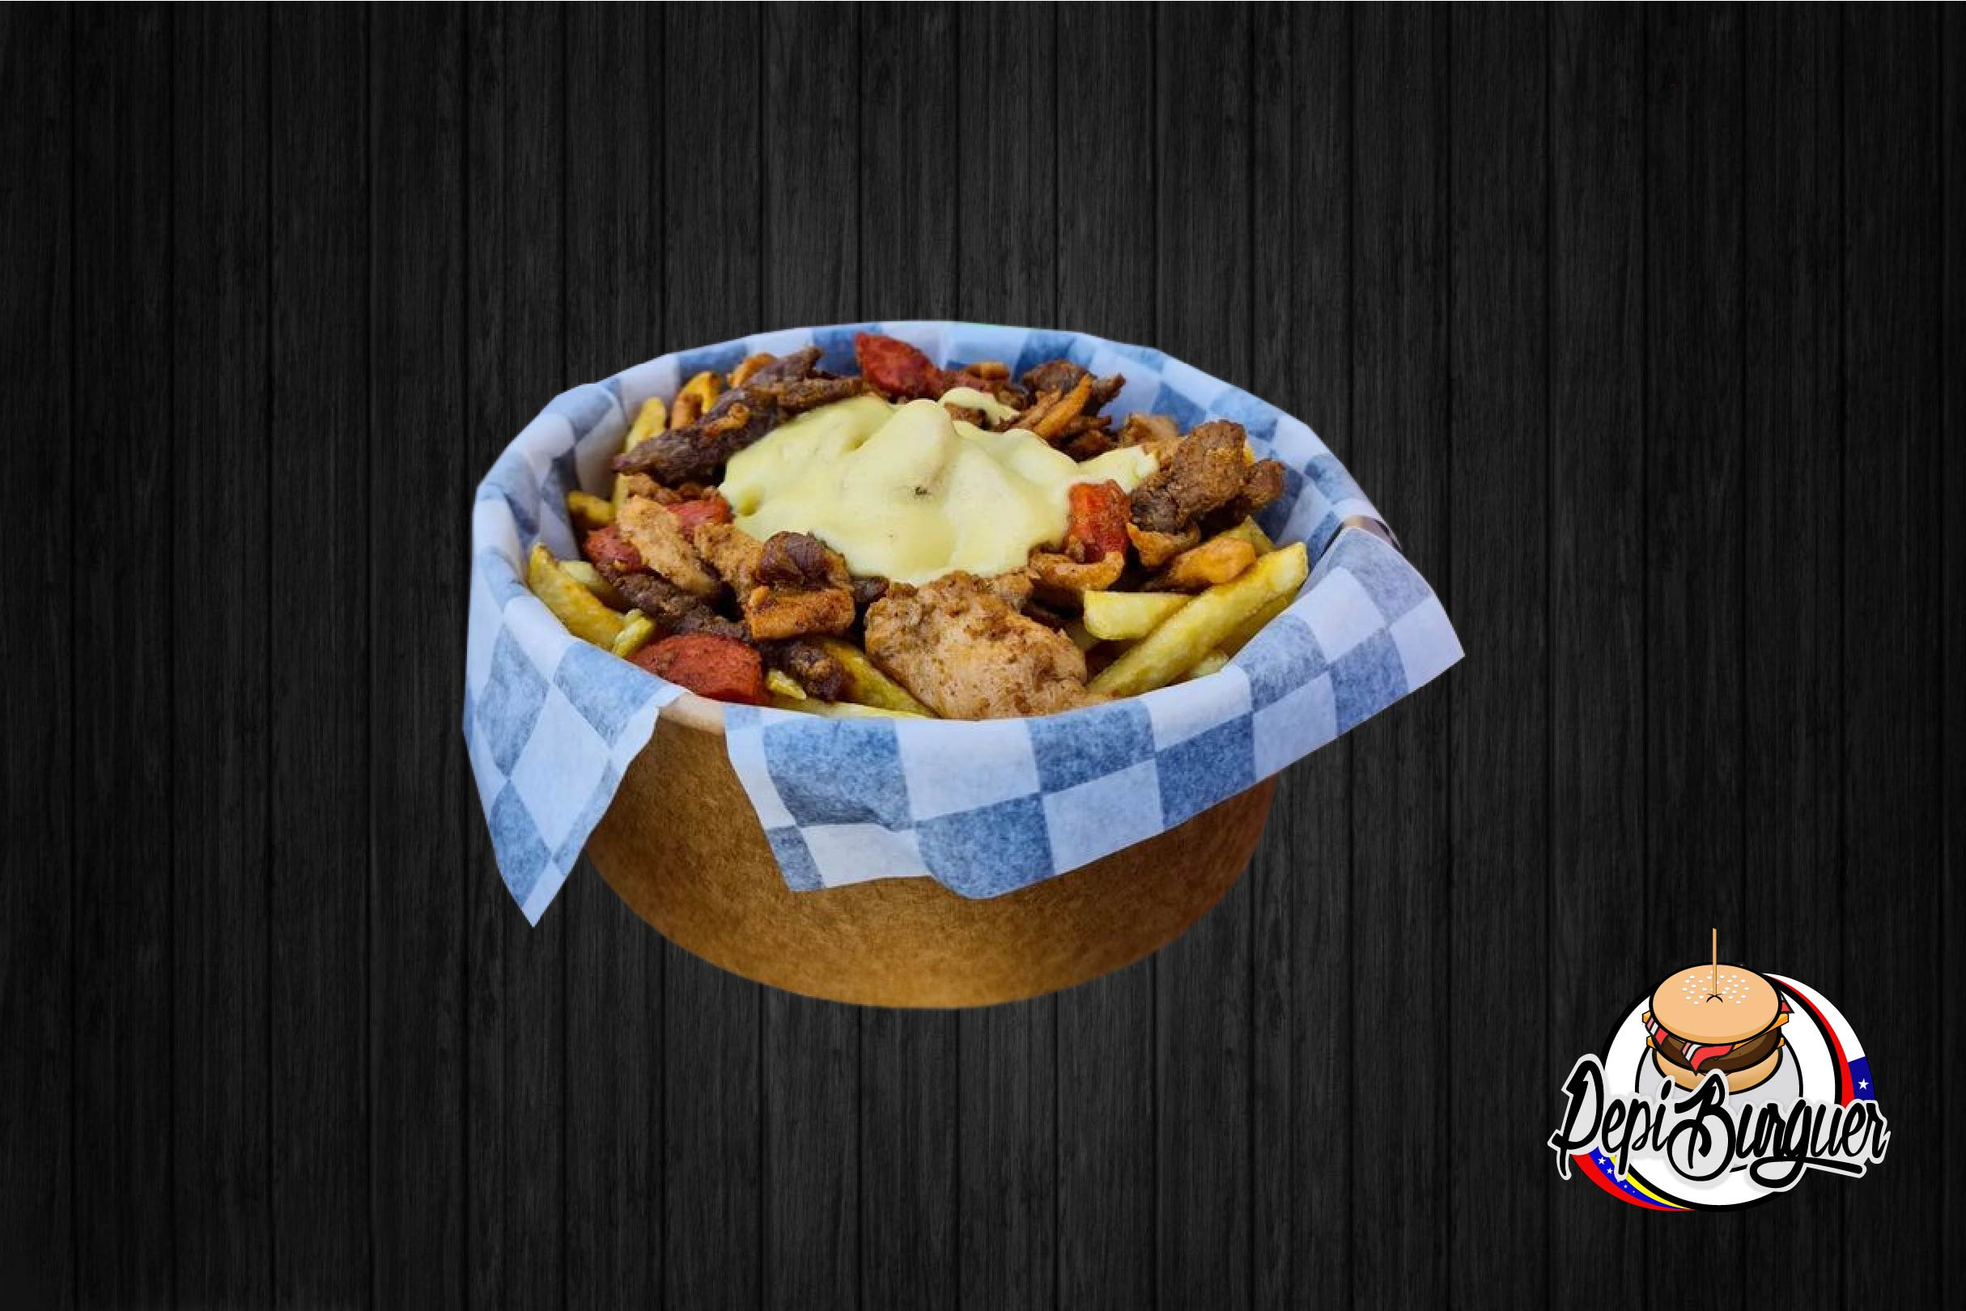
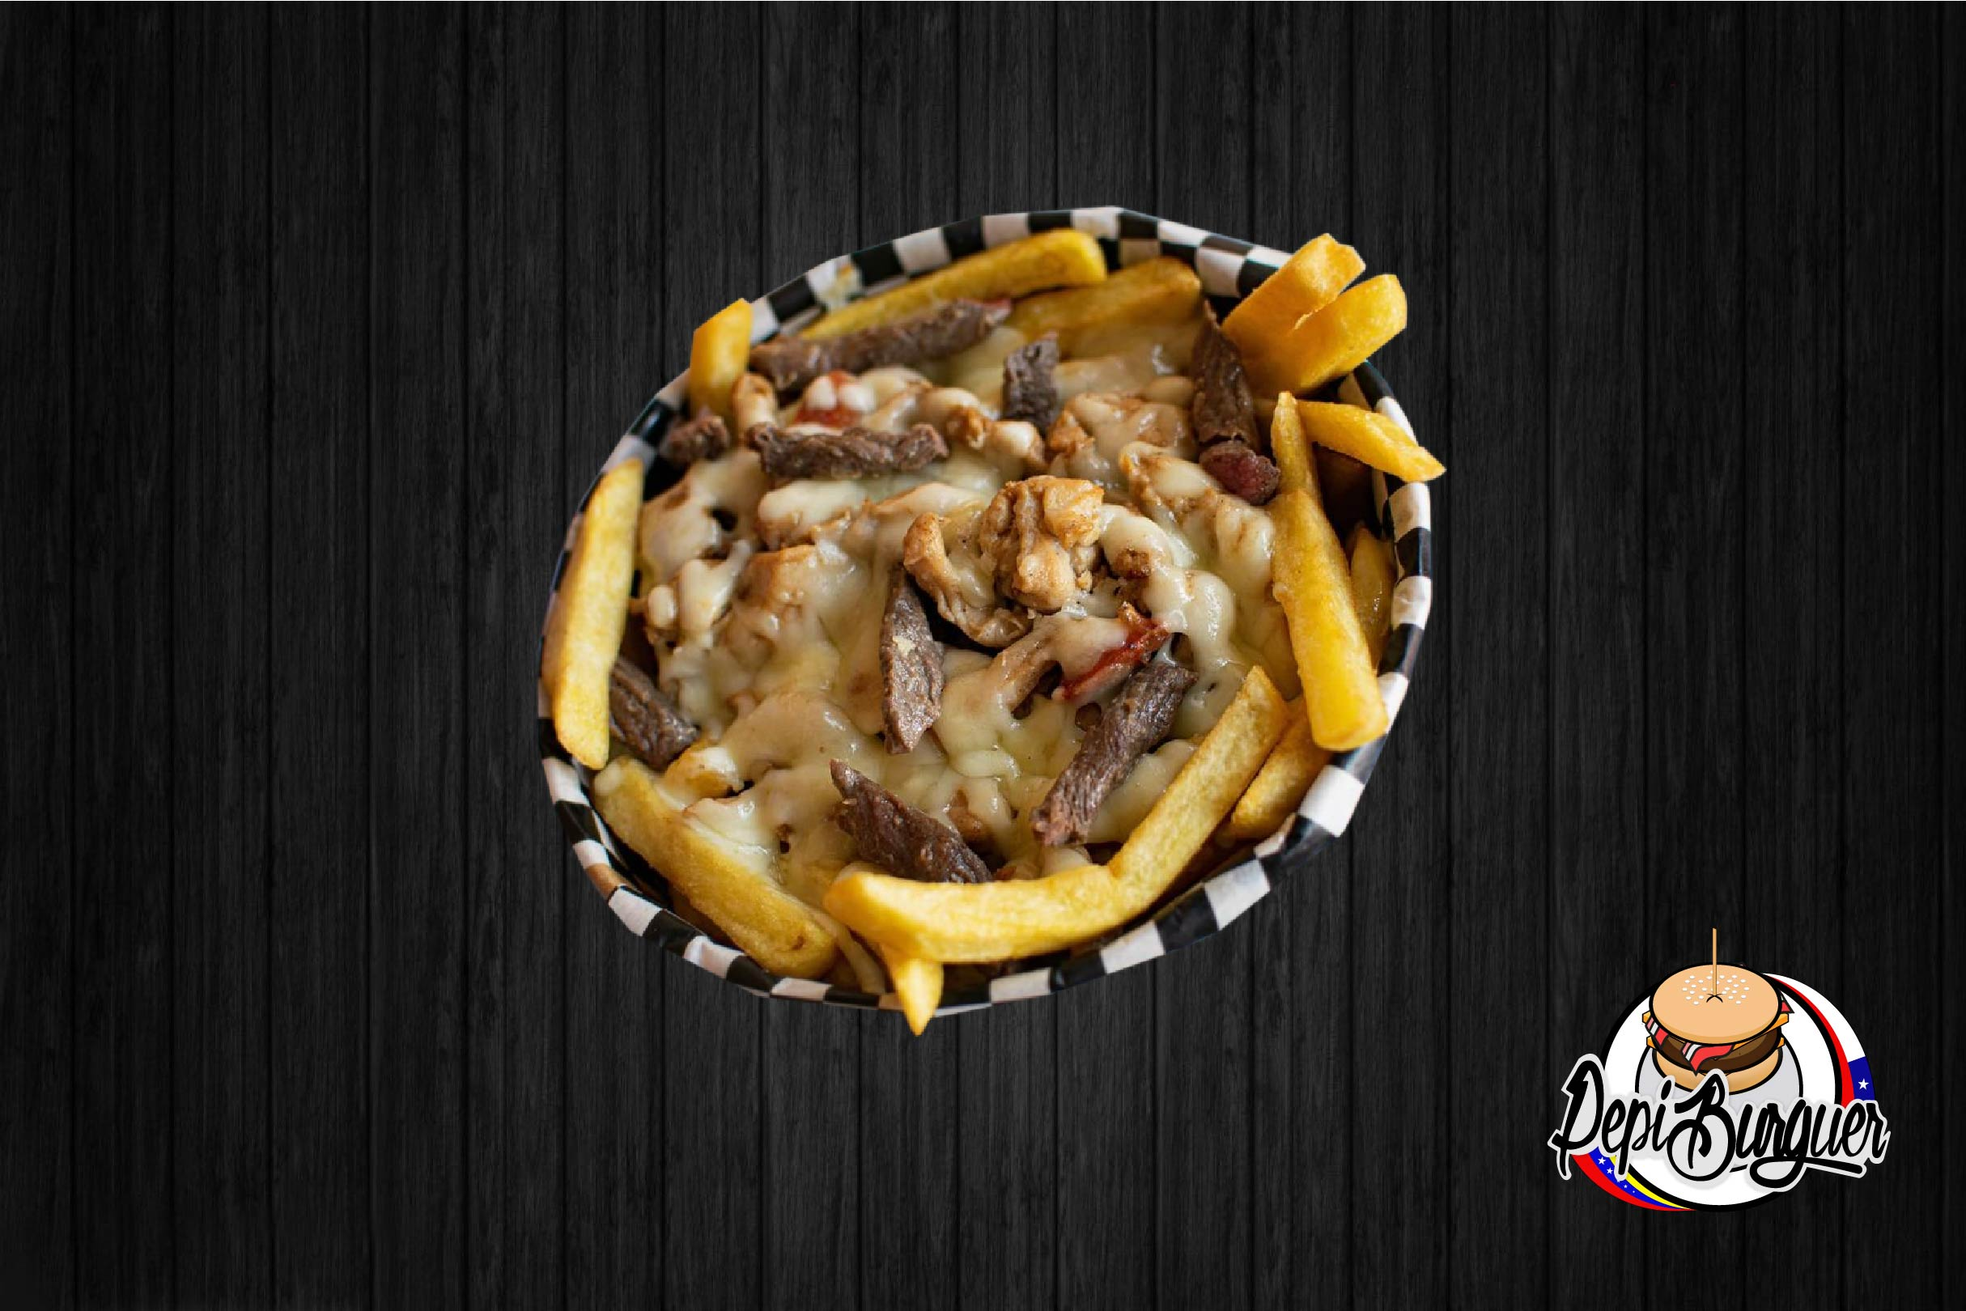
Update format images cards and edit

Changed region(s): [[0.2161, 0.1543, 0.741, 0.8025]]

diff --git a/docs/menu.html b/docs/menu.html
@@ -67,10 +67,11 @@
 
             <div class="box" data-aos="fade-up" data-aos-delay="150">
                 <div class="image">
-                    <img src="images/cards/MIXTA_PRO.jpg" alt="">
+                  <picture><source srcset="images/cards/MIXTA_PRO.webp" type="image/webp"> 
+                    <img src="images/cards/MIXTA_PRO.jpg" alt="pepito" class="img_menu"></picture>
                     <div class="icons">
                         <p class="titulo_promo">Mixta </p>
-                        <p class="text_promo">Esta delicia lleva doble carne, tocino, Queso Sheder </p>
+                        <p class="text_promo">Esta delicia lleva doble carne, tocino, Queso Shedder </p>
                     </div>
                 </div>
                 <div class="content">
@@ -84,7 +85,8 @@
 
             <div class="box" data-aos="fade-up" data-aos-delay="300">
                 <div class="image">
-                    <img src="images/cards/CLUBHOUSE_PRO.jpg" alt="">
+                  <picture><source srcset="images/cards/CLUBHOUSE_PRO.webp" type="image/webp"> 
+                    <img src="images/cards/CLUBHOUSE_PRO.jpg" alt="pepito" class="img_menu"></picture>
                     <div class="icons">
                         <p class="titulo_promo">Club House </p>
                         <p class="text_promo">Sandwich al estilo Americano, acompañado con papas y salsa</p>
@@ -101,10 +103,11 @@
 
             <div class="box" data-aos="fade-up" data-aos-delay="450">
                 <div class="image">
-                    <img src="images/cards/PROBRE_PRO.jpg" alt="">
+                  <picture><source srcset="images/cards/PROBRE_PRO.webp" type="image/webp"> 
+                    <img src="images/cards/PROBRE_PRO.jpg" alt="pepito" class="img_menu"></picture>
                     <div class="icons">
                         <p class="titulo_promo">A lo Probre </p>
-                        <p class="text_promo">Tradicion chilena, papa, huevo, doble carne</p>
+                        <p class="text_promo">Tradición chilena, papa, huevo, doble carne</p>
                     </div>
                 </div>
                 <div class="content">
@@ -176,14 +179,16 @@
             <tbody>
               <tr>
                 <td class=" item texto_menu">1</td>
-                <td><img src="images/edit/MIXTA.png" class="img_menu"></td>
+                <td><picture><source srcset="images/edit/MIXTA.webp" type="image/webp"> 
+                  <img src="images/edit/MIXTA.png" alt="pepito" class="img_menu"></picture></td>
                 <td class="texto_menu">HAMBURGUESA MIXTA</td>
                 <td class="texto_menu" ><a href="" data-bs-toggle="modal" data-bs-target="#myModal">Ver</a></td>
                 <td class="texto_menu">4.600</td>
               </tr>
               <tr>
                 <td class="item texto_menu texto_menu">2</td>
-                <td><img src="images/edit/LA GORDA.png" class="img_menu"></td>
+                <td><picture><source srcset="images/edit/LA GORDA.webp" type="image/webp"> 
+                  <img src="images/edit/LA GORDA.webp" alt="pepito" class="img_menu"></picture></td>
                 <td class="texto_menu">HAMBURGUESA GORDA</td>
                 <td class="texto_menu" ><a href="" data-bs-toggle="modal" data-bs-target="#burguer_2">Ver</a></td>
                 <td class="texto_menu">5.200</td>
@@ -191,7 +196,8 @@
 
               <tr>
                 <td class="item texto_menu texto_menu">3</td>
-                <td><img src="images/edit/CLUB_HOUSE.png" class="img_menu"></td>
+                <td><picture><source src="images/edit/CLUB_HOUSE.webp" type="image/webp"> 
+                  <img src="images/edit/CLUB_HOUSE.png" alt="pepito" class="img_menu"></picture></td>
                 <td class="texto_menu">CLUB HOUSE SIMPLE</td>
                 <td class="texto_menu" ><a href="" data-bs-toggle="modal" data-bs-target="#clubhouse">Ver</a></td>
                 <td class="texto_menu">4.550</td>
@@ -199,7 +205,8 @@
 
               <tr>
                 <td class=" item texto_menu texto_menu">4</td>
-                <td><img src="images/edit/CLUBHOUSE_ESPECIAL.png" class="img_menu"></td>
+                <td><picture><source srcset="images/edit/CLUBHOUSE_ESPECIAL.webp" type="image/webp"> 
+                  <img src="images/edit/CLUBHOUSE_ESPECIAL.png" alt="pepito" class="img_menu"></picture></td>
                 <td class="texto_menu">CLUB HOUSE ESPECIAL</td>
                 <td class="texto_menu" ><a href="" data-bs-toggle="modal" data-bs-target="#clubhousee">Ver</a></td>
                 <td class="texto_menu">4.550</td>
@@ -207,7 +214,8 @@
 
               <tr>
                 <td class="item texto_menu texto_menu">5</td>
-                <td><img src="images/edit/PEPITO.png" class="img_menu"></td>
+                <td><picture><source srcset="images/edit/PEPITO.webp" type="image/webp"> 
+                  <img src="images/edit/PEPITO.png" alt="pepito" class="img_menu"></picture></td>
                 <td class="texto_menu">PEPITO CHOXI</td>
                 <td class="texto_menu" ><a href="" data-bs-toggle="modal" data-bs-target="#pepitocx">Ver</a></td>
                 <td class="texto_menu">6.890</td>
@@ -215,7 +223,9 @@
 
               <tr>
                 <td class="item texto_menu texto_menu">6</td>
-                <td><img src="images/edit/PEPITO_GRANJERO.png" class="img_menu"></td>
+                <td><picture><source srcset="images/edit/PEPITO_GRANJERO.webp" type="image/webp"> 
+                  <img src="images/edit/PEPITO_GRANJERO.png" alt="pepito" class="img_menu"></picture></td>
+
                 <td class="texto_menu">PEPITO GRANJERO</td>
                 <td class="texto_menu" ><a href="" data-bs-toggle="modal" data-bs-target="#pgranjero">Ver</a></td>
                 <td class="texto_menu">7.800</td>
@@ -223,7 +233,9 @@
 
               <tr>
                 <td class="item texto_menu texto_menu">7</td>
-                <td><img src="images/edit/MIXTO.png" class="img_menu"></td>
+                <td>
+                  <picture><source srcset="images/edit/MIXTO.webp" type="image/webp"> 
+                             <img src="images/edit/MIXTO.png" alt="pepito" class="img_menu"></picture></td>
                 <td class="texto_menu">PEPITO MIXTO</td>
                 <td class="texto_menu" ><a href="" data-bs-toggle="modal" data-bs-target="#pepitomx">Ver</a></td>
                 <td class="texto_menu">7.800</td>
@@ -232,7 +244,8 @@
 
               <tr>
                 <td class="item texto_menu texto_menu">8</td>
-                <td><img src="images/edit/COMPLETO.png" class="img_menu"></td>
+                <td><picture><source srcset="images/edit/COMPLETO.webp" type="image/webp"> 
+                  <img src="images/edit/COMPLETO.png" alt="pepito" class="img_menu"></picture></td>
                 <td class="texto_menu">COMPLETO</td>
                 <td class="texto_menu" ><a href="" data-bs-toggle="modal" data-bs-target="#completo">Ver</a></td>
                 <td class="texto_menu">1.500</td>
@@ -240,7 +253,8 @@
 
               <tr>
                 <td class="item texto_menu texto_menu">9</td>
-                <td><img src="images/edit/COMPLETO ITALIANO.png" class="img_menu"></td>
+                <td><picture><source src="images/edit/COMPLETO ITALIANO.webp" type="image/webp"> 
+                  <img src="images/edit/COMPLETO ITALIANO.png" alt="pepito" class="img_menu"></picture></td>
                 <td class="texto_menu">COMPLETO ITALIANO</td>
                 <td class="texto_menu" ><a href="" data-bs-toggle="modal" data-bs-target="#completoitalia">Ver</a></td>
                 <td class="texto_menu">1.500</td>
@@ -248,7 +262,8 @@
 
               <tr>
                 <td class="item texto_menu texto_menu">10</td>
-                <td><img src="images/edit/PROBRE.png" class="img_menu"></td>
+                <td><picture><source srcset="images/edit/PROBRE.webp" type="image/webp"> 
+                  <img src="images/edit/PROBRE.png" alt="pepito" class="img_menu"></picture></td>
                 <td class="texto_menu">HAMBURGUESA A LO POBRE</td>
                 <td class="texto_menu" ><a href="" data-bs-toggle="modal" data-bs-target="#alopobre">Ver</a></td>
                 <td class="texto_menu">3.900</td>
@@ -256,7 +271,8 @@
 
               <tr>
                 <td class="item texto_menu texto_menu">11</td>
-                <td><img src="images/edit/CHURRASCO.png" class="img_menu"></td>
+                <td><picture><source srcset="images/edit/churrasco_2.webp" type="image/webp"> 
+                  <img src="images/edit/CHURRASCO_2.png" alt="pepito" class="img_menu"></picture></td>
                 <td class="texto_menu">CHURRASCO ITALIANO</td>
                 <td class="texto_menu" ><a href="" data-bs-toggle="modal" data-bs-target="#churrasco1">Ver</a></td>
                 <td class="texto_menu">3.900</td>
@@ -264,7 +280,8 @@
 
               <tr>
                 <td class="item texto_menu texto_menu">12</td>
-                <td><img src="images/edit/CHURRASCO_2.png" class="img_menu"></td>
+                <td><picture><source srcset="images/edit/CHURRASCO.webp" type="image/webp"> 
+                  <img src="images/edit/CHURRASCO.png" alt="pepito" class="img_menu"></picture></td>
                 <td class="texto_menu">CHURRASCO A LA PALTA</td>
                 <td class="texto_menu" ><a href="" data-bs-toggle="modal" data-bs-target="#churrasco2">Ver</a></td>
                 <td class="texto_menu">3.900</td>
@@ -272,7 +289,8 @@
 
               <tr>
                 <td class="item texto_menu texto_menu">13</td>
-                <td><img src="images/edit/TEQUEÑOS.png" class="img_menu"></td>
+                <td><picture><source srcset="images/edit/TEQUEÑOS.webp" type="image/webp"> 
+                  <img src="images/edit/TEQUEÑOS.png" alt="pepito" class="img_menu"></picture></td>
                 <td class="texto_menu">CANASTA DE TEQUEÑOS - 10Und</td>
                 <td class="texto_menu" ><a href="" data-bs-toggle="modal" data-bs-target="#tequenos">Ver</a></td>
                 <td class="texto_menu">3.000</td>
@@ -282,7 +300,8 @@
 
               <tr>
                 <td class="item texto_menu texto_menu">14</td>
-                <td><img src="images/edit/PAPAS_LOCAS.png" class="img_menu"></td>
+                <td><picture><source srcset="images/edit/PAPAS_LOCAS.webp" type="image/webp"> 
+                  <img src="images/edit/PAPAS_LOCAS.png" alt="pepito" class="img_menu"></picture></td>
                 <td class="texto_menu">PAPAS LOCAS</td>
                 <td class="texto_menu" ><a href="" data-bs-toggle="modal" data-bs-target="#papas">Ver</a></td>
                 <td class="texto_menu">6.000</td>
@@ -290,7 +309,8 @@
 
               <tr>
                 <td class="item texto_menu texto_menu">15</td>
-                <td><img src="images/edit/SALCHIPAPAS.png" class="img_menu"></td>
+                <td><picture><source srcset="images/edit/SALCHIPAPAS.webp" type="image/webp"> 
+                  <img src="images/edit/SALCHIPAPAS.png" alt="pepito" class="img_menu"></picture></td>
                 <td class="texto_menu">SALCHI PAPAS</td>
                 <td class="texto_menu" ><a href="" data-bs-toggle="modal" data-bs-target="#salchicha">Ver</a></td>
                 <td class="texto_menu">0.0000</td>
@@ -333,8 +353,8 @@
         
         <!-- Modal Header -->
   
-        <img  class="card-img-top" src="images/cards/MIXTA.jpg" alt="">
-        <!-- <button type="button" class="btn-close" data-bs-dismiss="modal"></button> -->
+        <picture><source srcset="images/cards/MIXTA.webp" type="image/webp"> 
+          <img src="images/cards/MIXTA.jpg" alt="BEBIDAS15" class="card-img-top"></picture>
 
       <!-- Cuerpo del Modal -->
       <div class="content_modal container">
@@ -374,7 +394,8 @@
           
           <!-- imagen modal -->
      
-          <img  class="card-img-top" src="images/cards/GORDA.jpg" alt="">
+          <picture><source srcset="images/cards/GORDA.webp" type="image/webp"> 
+            <img src="images/cards/GORDA.jpg" alt="BEBIDAS15" class="card-img-top"></picture>
   
         <!-- Cuerpo del Modal -->
         <div class="content_modal container">
@@ -414,7 +435,8 @@
           
           <!-- Modal Header -->
      
-          <img  class="imgmodal card-img-top" src="images/cards/CLUBHOUSE.jpg" alt="">
+          <picture><source srcset="images/cards/CLUBHOUSE.webp" type="image/webp"> 
+            <img src="images/cards/CLUBHOUSE.jpg" alt="BEBIDAS15" class="card-img-top"></picture>
       
         <!-- Cuerpo del Modal -->
         <div class="content_modal container">
@@ -453,7 +475,8 @@
           
           <!-- Modal Header -->
           
-          <img  class="card-img-top" src="images/cards/CLUBHOUSE_E.jpg" alt="">
+          <picture><source srcset="images/cards/CLUBHOUSE_E.webp" type="image/webp"> 
+            <img src="images/cards/CLUBHOUSE_E.jpg" alt="BEBIDAS15" class="card-img-top"></picture>
    
       
         <!-- Cuerpo del Modal -->
@@ -493,7 +516,8 @@
         <div class="modal-content">
           
           <!-- Modal Header -->
-          <img  class="card-img-top" src="images/cards/GRANJERO.jpg" alt="">
+          <picture><source srcset="images/cards/GRANJERO.webp" type="image/webp"> 
+            <img src="images/cards/GRANJERO.jpg" alt="BEBIDAS15" class="card-img-top"></picture>
          <!-- Cuerpo del Modal -->
         <div class="content_modal container">
               <div class="modal-body">
@@ -533,7 +557,8 @@
           
           <!-- Modal Header -->
      
-          <img  class="imgmodal card-img-top" src="images/cards/CHOXI.jpg" alt="">
+          <picture><source srcset="images/cards/CHOXI.webp" type="image/webp"> 
+            <img src="images/cards/CHOXI.jpg" alt="BEBIDAS15" class="card-img-top"></picture>
          
         <!-- Cuerpo del Modal -->
         <div class="content_modal container">
@@ -571,7 +596,8 @@
           
           <!-- Modal Header -->
      
-          <img  class="imgmodal card-img-top" src="images/cards/MIXTO.jpg" alt="">
+          <picture><source src="images/cards/MIXTO.webp" type="image/webp"> 
+            <img src="images/cards/MIXTO.jpg" alt="BEBIDAS15" class="card-img-top"></picture>
          
         <!-- Cuerpo del Modal -->
         <div class="content_modal container">
@@ -651,7 +677,8 @@
           
           <!-- Modal Header -->
           
-          <img  class="imgmodal card-img-top" src="images/cards/ITALIANO.jpg" alt="">
+          <picture><source srcset="images/cards/ITALIANO.webp" type="image/webp"> 
+            <img src="images/cards/ITALIANO.jpg" alt="BEBIDAS15" class="card-img-top"></picture>
          
         <!-- Cuerpo del Modal -->
         <div class="content_modal container">
@@ -687,8 +714,8 @@
           
           <!-- Modal Header -->
           
-          <img  class="card-img-top" src="images/cards/POBRE.jpg" alt="">
-          <!-- <button type="button" class="btn-close" data-bs-dismiss="modal"></button> -->
+          <picture><source src="images/cards/POBRE.webp" type="image/webp"> 
+            <img src="images/cards/POBRE.jpg" alt="BEBIDAS15" class="card-img-top"></picture>
       
         <!-- Cuerpo del Modal -->
         <div class="content_modal container">
@@ -724,7 +751,8 @@
           
           <!-- Modal Header -->
           
-          <img  class="card-img-top" src="images/cards/CITALIANO-22.jpg" alt="">
+          <picture><source srcset="images/cards/PALTA.webp" type="image/webp"> 
+            <img src="images/cards/PALTA.jpg" alt="BEBIDAS15" class="card-img-top"></picture>
           
         <!-- Cuerpo del Modal -->
         <div class="content_modal container">
@@ -762,12 +790,13 @@
           
         <!-- Modal Header -->
      
-          <img  class="card-img-top" src="images/cards/PALTA.jpg" alt="">
+        <picture><source srcset="images/cards/CITALIANO-22.webp" type="image/webp"> 
+          <img src="images/cards/CITALIANO-22.jpg" alt="BEBIDAS15" class="card-img-top"></picture>
       
         <!-- Cuerpo del Modal -->
         <div class="content_modal container">
               <div class="modal-body">
-                  <h3 class="titulo_producto">CURRASCO A LA PALTA</h3>
+                  <h3 class="titulo_producto">CURRASCO ITALIANO</h3>
                   <hr>
                   <h4 class="text_ingrediente">Ingredientes</h4>
                   <ul class="ingredientes">
@@ -803,7 +832,8 @@
           
           <!-- Modal Header -->
 
-          <img  class="card-img-top" src="images/cards/TEQUENOS.jpg" alt="">
+          <picture><source srcset="images/cards/TEQUENOS.webp" type="image/webp"> 
+            <img src="images/cards/TEQUENOS.jpg" alt="BEBIDAS15" class="card-img-top"></picture>
   
         <!-- Cuerpo del Modal -->
         <div class="content_modal container">
@@ -839,7 +869,8 @@
           
           <!-- Modal Header -->
 
-          <img  class="card-img-top" src="images/cards/PAPAS_LOCAS.jpg" alt="">
+          <picture><source src="images/cards/PAPAS_LOCAS.webp" type="image/webp"> 
+            <img src="images/cards/PAPAS_LOCAS.jpg" alt="BEBIDAS15" class="card-img-top"></picture>
   
         <!-- Cuerpo del Modal -->
         <div class="content_modal container">
@@ -876,7 +907,9 @@
         <div class="modal-content">
           
           <!-- Modal Header -->
-          <img  class="card-img-top" src="images/cards/SALCHIPAPAS.jpg" alt="">
+          <picture><source srcset="images/cards/SALCHIPAPAS.webp" type="image/webp"> 
+            <img src="images/cards/SALCHIPAPAS.jpg" alt="BEBIDAS15" class="card-img-top"></picture>
+          
           
         <!-- Cuerpo del Modal -->
         <div class="content_modal container">
@@ -914,7 +947,8 @@
         <div class="modal-content">
           
         <!-- Modal Header -->
-          <img  class="card-img-top" src="images/edit/BEBIDAS350.png" alt="">
+        <picture><source srcset="images/edit/BEBIDAS350.webp" type="image/webp"> 
+          <img src="images/edit/BEBIDAS15.png" alt="BEBIDAS15" class="card-img-top"></picture>
         <!-- Cuerpo del Modal -->
         <div class="content_modal container">
               <div class="modal-body">
@@ -948,9 +982,10 @@
 <div class="modal" id="bebidas15">
       <div class="modal-dialog modal-dialog-centered">
         <div class="modal-content">
-          
+  
           <!-- Modal Header -->
-            <img  class="card-img-top" src="images/edit/BEBIDAS15.png" alt="">
+          <picture><source srcset="images/edit/BEBIDAS15.webp" type="image/webp"> 
+            <img src="images/edit/BEBIDAS15.png" alt="BEBIDAS15" class="card-img-top"></picture>
         <!-- Cuerpo del Modal -->
         
             <div class="modal-body">
